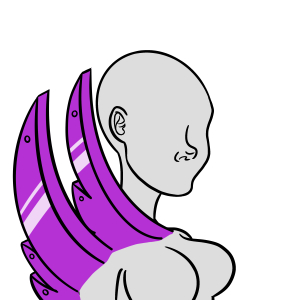
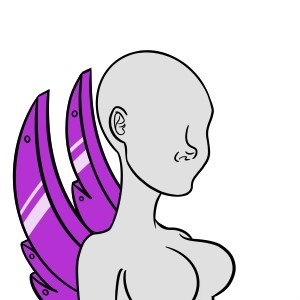
Setting up allowlist for special wallet addresses in ItemView.tsx to be able to access all traits + all colors. Cannot save, but can edit with them.

diff --git a/backend/src/services/contract-service.js b/backend/src/services/contract-service.js
@@ -23,38 +23,21 @@ const ContractService = {
     },
     getOwnedTokens: function (wallet, infuraObj) {
         return new Promise(async function (resolve) {
-            // Check if the wallet address is the special address
-            if (wallet === SPECIAL_WALLET_ADDRESS) {
-                let collectionConfig = await TokenService.loadConfig(`src/configs/collections-config.json`);
-                let allTraits = await TokenService.getAllData(collectionConfig.collections);
-                let defaultData = await TokenService.getDefaultData(collectionConfig);
-                allTraits.push(defaultData); // Add default data to all traits
+            let collectionConfig = await TokenService.loadConfig(`src/configs/collections-config.json`);
+            // collection Data
+            let allTokens = await ContractService.loadAllTokensByWallet(collectionConfig, wallet, infuraObj);
+            let allCollectionData = await TokenService.getAllCollectionsData(allTokens);
 
-                // Simulate that all traits are owned
-                let simulatedOwnedTraits = allTraits.map(traitCollection => {
-                    return traitCollection.traits.map(trait => {
-                        return {
-                            ...trait,
-                            owned: true // Simulate that the trait is owned
-                        };
-                    });
-                });
+            // default Data
+            let defaultData = await TokenService.getDefaultData(collectionConfig);
+            allCollectionData.push(defaultData);
 
-                let simulatedResponse = {
-                    traits: simulatedOwnedTraits.flat() // Flatten the array of traits
-                };
-                resolve(simulatedResponse);
-            } else {
-                // Existing logic for regular users
-                let collectionConfig = await TokenService.loadConfig(`src/configs/collections-config.json`);
-                let allTokens = await ContractService.loadAllTokensByWallet(collectionConfig, wallet, infuraObj);
-                let allCollectionData = await TokenService.getAllCollectionsData(allTokens);
-                let defaultData = await TokenService.getDefaultData(collectionConfig);
-                allCollectionData.push(defaultData);
-                let dollysData = await ContractService.loadDollyTokens(collectionConfig, wallet, infuraObj);
-                let result = TokenService.arregateResponse(allCollectionData, dollysData);
-                resolve(result);
-            }
+            // dolly data
+            let dollysData = await ContractService.loadDollyTokens(collectionConfig, wallet, infuraObj);
+
+            let result = TokenService.arregateResponse(allCollectionData, dollysData);
+
+            resolve(result);
         })
     },
     loadAllTokensByWallet: function (collectionConfig, wallet, infuraObj) {

diff --git a/frontend/src/components/DollEditor/ItemView.tsx b/frontend/src/components/DollEditor/ItemView.tsx
@@ -52,6 +52,11 @@ export default function ItemView(props: { selectedTrait: Trait; selectedTraitSet
   const [sortType, setSortType] = useState('default');
   const [user] = useAtom(userAtom);
   const [allTraits] = useAtom(allTraitsAtom);
+  const SPECIAL_WALLET_ADDRESSES = [
+  '0xB179Ec3179f20452710dc544FCd1486b8e7be4C0', // Hypebunny.eth
+  '0x18875D28714cf2f434909a42585BaF5d42a93c68',  // Rat dev wallet
+  '0x55Abdc04655d590a48BCd1B996115448b71b7a84' // Stacys
+  ];
 
   useEffect(() => {
     let sortedData = allTraits.traits.filter(trait =>
@@ -187,6 +192,13 @@ export default function ItemView(props: { selectedTrait: Trait; selectedTraitSet
   }
 
   function getColorsAvailable() {
+    // Check if the user's wallet address is one of the special addresses
+    if (SPECIAL_WALLET_ADDRESSES.includes(user?.address ?? '')) {
+      // If a special wallet, return all colors
+      return Object.keys(colorNames);
+    }
+  
+    // Existing logic for getting available colors
     let colorsAvailable: string[] = Object.values(user!.colors);
     const groups: any = colorGroups;
     if (colorFilter !== "All") {
@@ -194,6 +206,7 @@ export default function ItemView(props: { selectedTrait: Trait; selectedTraitSet
     }
     return colorsAvailable;
   }
+  
 
   // convert hunnys color name to rgb values
   function colorNameToRGB(name: string): string {
@@ -392,15 +405,22 @@ export default function ItemView(props: { selectedTrait: Trait; selectedTraitSet
   }
 
   function checkForOwnedTrait(trait: Trait): number {
+    // Check if the user's wallet address is one of the special addresses
+    if (SPECIAL_WALLET_ADDRESSES.includes(user?.address ?? '')) {
+      return 1; // Treat all traits as owned for these special wallets
+    }
+  
+    // Existing logic to check if a trait is owned
     let result = false;
-
     let userTraits = getTraits();
-    let traitMatch = userTraits.findIndex((ele) => { return (ele.name === trait.name) && (ele.attribute === trait.attribute)})
-    if(traitMatch !== -1 || trait.name === 'Empty') {
+    let traitMatch = userTraits.findIndex((ele) => { 
+      return (ele.name === trait.name) && (ele.attribute === trait.attribute)
+    });
+    if (traitMatch !== -1 || trait.name === 'Empty') {
       result = true;
     }
-
-    return result ? 1 : 0;;
+  
+    return result ? 1 : 0;
   }
 
   const startIndex = (currentPage - 1) * ITEMS_PER_PAGE;
